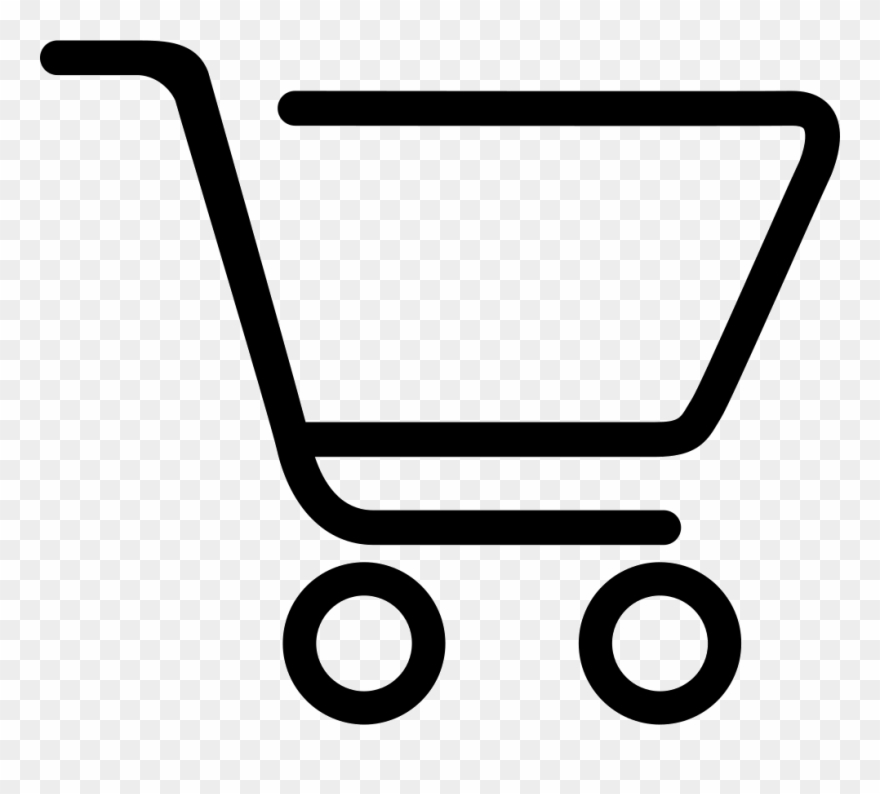
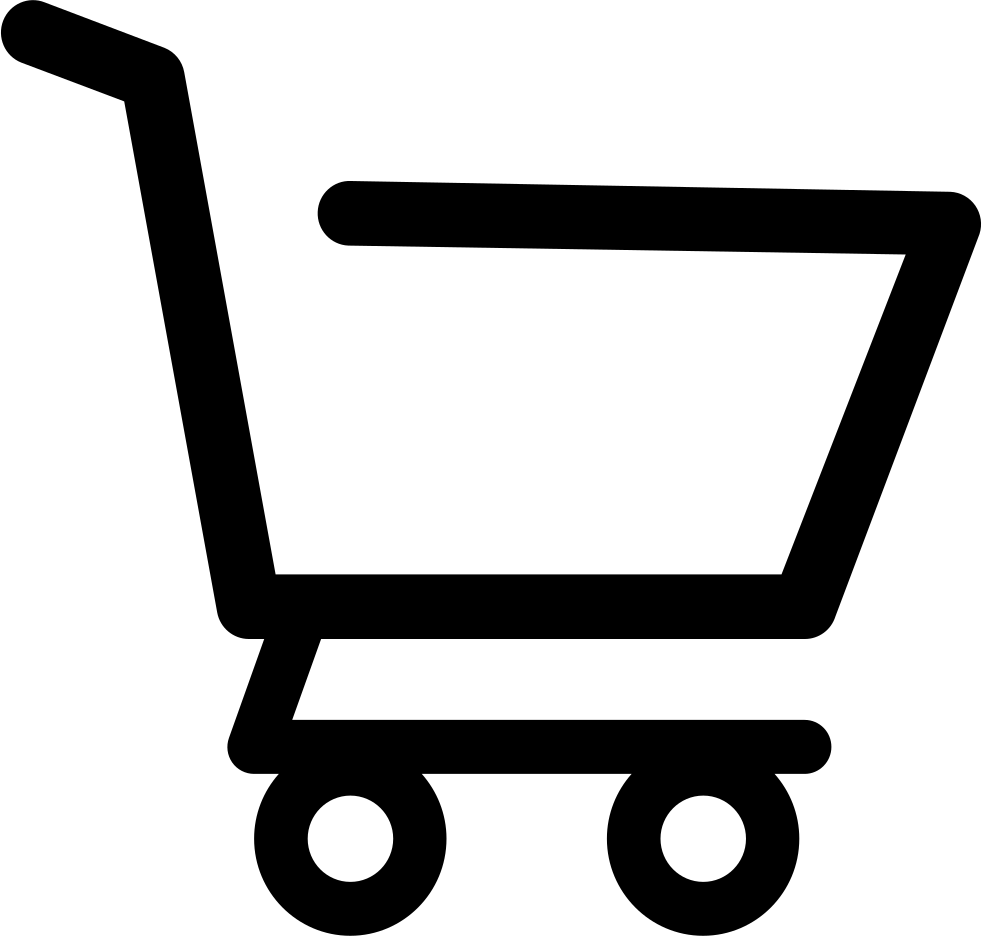
requisito 3 - adciona icone e componente do carrinho de compra - redimensionamento da imagem

diff --git a/src/pages/Search.js b/src/pages/Search.js
@@ -1,6 +1,7 @@
 import React from 'react';
 import { Link } from 'react-router-dom';
 import shoppingCartIcon from '../images/shoppingCartIcon.png';
+import './Pages.css';
 
 class Search extends React.Component {
   constructor() {
@@ -33,7 +34,7 @@ class Search extends React.Component {
           categoria.
         </label>
         <Link to="/shopping-cart" data-testid="shopping-cart-button">
-          <img src={ shoppingCartIcon } alt="shopping-cart" />
+          <img src={ shoppingCartIcon } alt="shopping-cart" className="shopping-cart" />
         </Link>
       </div>
     );

diff --git a/src/pages/Pages.css b/src/pages/Pages.css
@@ -1,0 +1,5 @@
+.shopping-cart {
+  display: inline;
+  margin: 10px;
+  width: 50px;
+}
